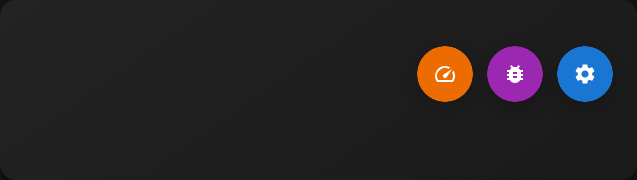
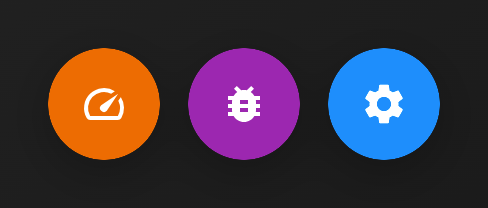
docs(demo): crop the preview screenshots to the buttons

diff --git a/README.md b/README.md
@@ -1,10 +1,10 @@
 # MUI CollageFab
 
-**[Live demo →](https://www.radomir.dev/mui-collage-fab/)**
+**[Live demo →](https://radomir.dev/mui-collage-fab/)**
 
 | Collapsed | Expanded |
 | --- | --- |
-| <img src="https://raw.githubusercontent.com/radomir-dev/mui-collage-fab/main/docs/collagefab-collapsed.png" alt="Three CollageFab buttons collapsed into a single stacked circle" width="400" /> | <img src="https://raw.githubusercontent.com/radomir-dev/mui-collage-fab/main/docs/collagefab-expanded.png" alt="Three CollageFab buttons fanned out into a horizontal row" width="400" /> |
+| <img src="https://raw.githubusercontent.com/radomir-dev/mui-collage-fab/main/docs/collagefab-collapsed.png" alt="Three CollageFab buttons collapsed into a single stacked circle" height="104" /> | <img src="https://raw.githubusercontent.com/radomir-dev/mui-collage-fab/main/docs/collagefab-expanded.png" alt="Three CollageFab buttons fanned out into a horizontal row" height="104" /> |
 
 A Material UI floating action button that behaves like a collapsed stack of overlapping circles. Collapsed, a set of `Fab`s sits perfectly stacked and reads as a single button with soft gradient slices at the edges. On hover (mouse) or tap (touch), the parent expands its main-axis extent and the buttons fan out into a row while their CSS masks slide in lockstep with the movement — so the unfold reads as one continuous morph instead of a pop.
 
@@ -120,9 +120,9 @@ const theme = createTheme({
 
 ## Demo site
 
-1. Demo — <https://www.radomir.dev/mui-collage-fab/>
-2. Components API — <https://www.radomir.dev/mui-collage-fab/#/docs>
-3. Playground — <https://www.radomir.dev/mui-collage-fab/#/playground>
+1. Demo — <https://radomir.dev/mui-collage-fab/>
+2. Components API — <https://radomir.dev/mui-collage-fab/#/docs>
+3. Playground — <https://radomir.dev/mui-collage-fab/#/playground>
 
 Routing is hash-based, so the built site works on any static host without a
 server-side fallback.
